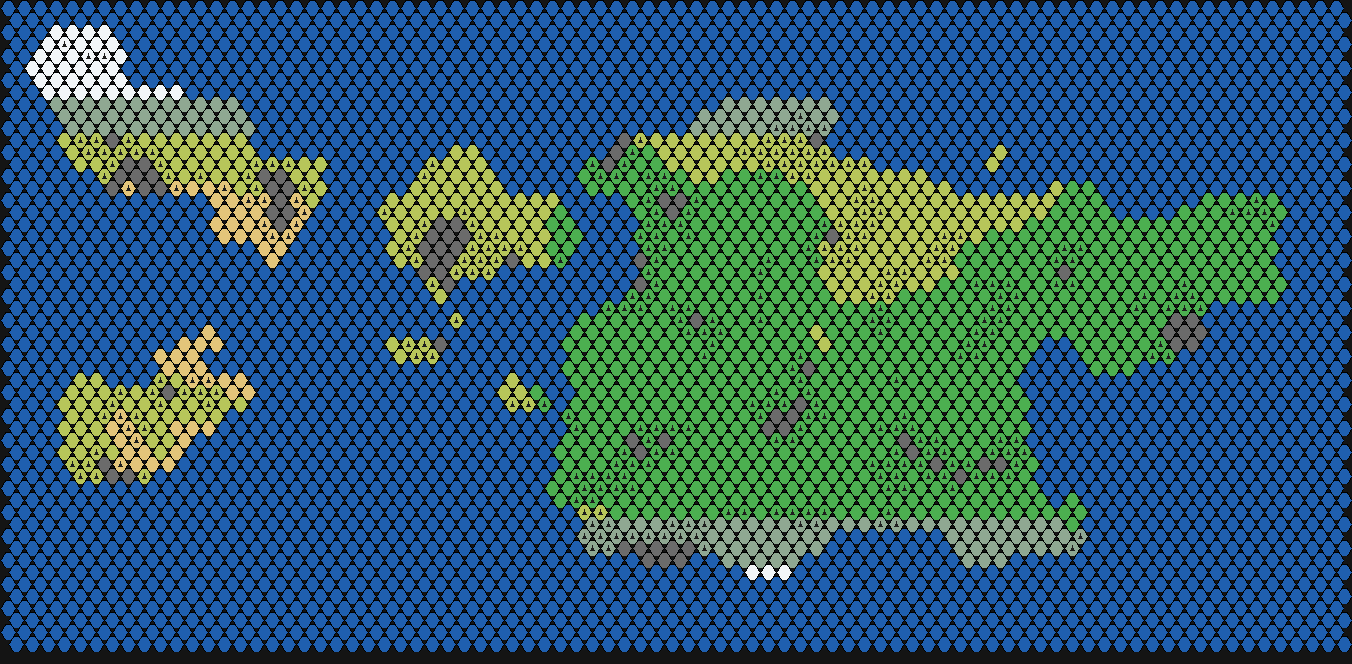
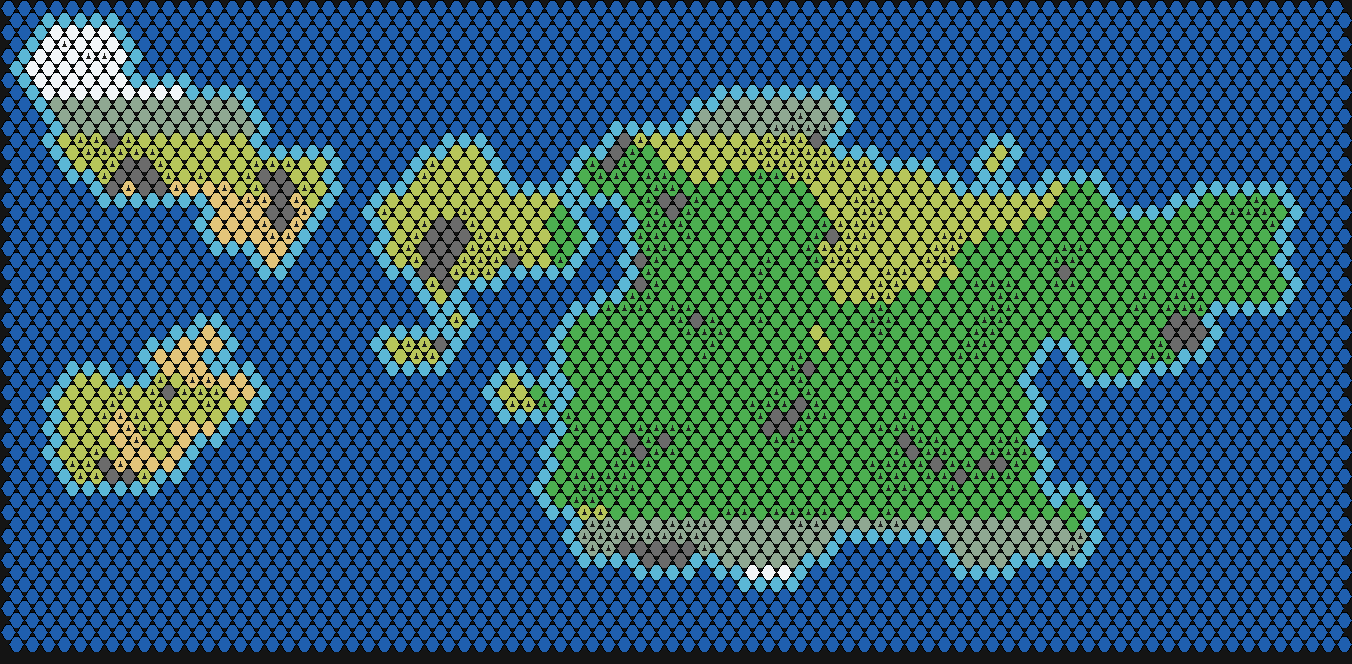
working on rivers

diff --git a/crates/mapgen/src/pipeline/biomes.rs b/crates/mapgen/src/pipeline/biomes.rs
@@ -362,7 +362,7 @@ fn generate_random_255(seed: u64, size: &MapSizes, noise_config: &NoiseConfig) -
 
 /// Helper function for Odd-r neighbors for pointy-top hexes
 /// Returns only in-bounds neighbors
-fn neighbors_odd_r(x: usize, y: usize, width: usize, height: usize) -> Vec<(usize, usize)> {
+pub fn neighbors_odd_r(x: usize, y: usize, width: usize, height: usize) -> Vec<(usize, usize)> {
     let p = y & 1;
 
     let x = x as isize;
@@ -412,6 +412,7 @@ fn neighbors_odd_r(x: usize, y: usize, width: usize, height: usize) -> Vec<(usiz
 
 /// Returns a mask where true is ocean
 /// Assumes landmask of 1 = land & 0 = water.
+/// This will only mark the oceans and the lakes, coastal tiles need to be marked separately
 fn ocean_mask(landmasses: &Vec<u8>, size: &MapSizes) -> Vec<bool> {
     let (width, height) = size.dimensions();
     let mut ocean = vec![false; size.grid_size()];
@@ -443,6 +444,33 @@ fn ocean_mask(landmasses: &Vec<u8>, size: &MapSizes) -> Vec<bool> {
     ocean
 }
 
+/// Function to mark the coastal tiles i.e. "ocean" tiles with at least one land neighbor
+fn coastal_water_mask(landmasses: &[u8], ocean: &[bool], size: &MapSizes) -> Vec<bool> {
+    let (width, height) = size.dimensions();
+    let mut coast = vec![false; width * height];
+
+    for y in 0..height {
+        for x in 0..width {
+            let idx = y * width + x;
+
+            // only ocean water can be coast
+            if landmasses[idx] != 0 || !ocean[idx] {
+                continue;
+            }
+
+            // if any neighbor is land mark as coast
+            if neighbors_odd_r(x, y, width, height)
+                .into_iter()
+                .any(|(nx, ny)| landmasses[ny * width + nx] == 1)
+            {
+                coast[idx] = true;
+            }
+        }
+    }
+
+    coast
+}
+
 /// Assign terrains based on the landmasses, temperature, rainfall and heightmap
 /// Returns (Vec<Terrain>, Vec<bool>) for terrain and defining hills
 fn assign_terrain(
@@ -460,7 +488,7 @@ fn assign_terrain(
     // Create histogram of heights (only on land)
     let mut height_histogram = [0u32; 256];
     let mut land_count = 0;
-    for (i, value) in landmasses.iter().enumerate() {
+    for (i, _) in landmasses.iter().enumerate() {
         if landmasses[i] == 1 {
             height_histogram[heightmap[i] as usize] += 1;
             land_count += 1;
@@ -499,6 +527,7 @@ fn assign_terrain(
     // **********************
 
     let ocean_mask = ocean_mask(&landmasses, &size);
+    let coast_mask = coastal_water_mask(&landmasses, &ocean_mask, &size);
 
     // **************
     // ** Terrains **
@@ -508,41 +537,55 @@ fn assign_terrain(
     let mut terrain_vec = Vec::with_capacity(n);
     let mut hill_vec = Vec::with_capacity(n);
 
-    for (l, o, h, t, r) in izip!(landmasses, ocean_mask, heightmap, temperature, rainfall) {
-        // oceans
-        if *l == 0 {
-            terrain_vec.push(if o {
-                Terrain::Ocean
-            } else {
+    for i in 0..n {
+        let l = landmasses[i];
+        
+        //water
+        if l == 0{
+            let o = ocean_mask[i];
+
+            let is_coast = coast_mask[i];
+            let is_lake = !o;
+
+            terrain_vec.push(if is_lake || is_coast {
                 Terrain::CoastLake
+            } else {
+                Terrain::Ocean
             });
             hill_vec.push(false);
             continue;
         }
 
-        if h >= &k_mountains {
+        // hills
+        let h = heightmap[i];
+        if h >= k_mountains {
             terrain_vec.push(Terrain::Mountain);
             hill_vec.push(false);
             continue;
         }
 
-        let is_hill = h >= &k_hills;
+        let is_hill = h >= k_hills;
         hill_vec.push(is_hill);
 
-        let terrain = if t <= &terrain_cfg.snow_temp_threshold {
+
+        let t = temperature[i];
+        let r = rainfall[i];
+        let terrain = if t <= terrain_cfg.snow_temp_threshold {
             Terrain::Snow
-        } else if t <= &terrain_cfg.tundra_temp_threshold {
+        } else if t <= terrain_cfg.tundra_temp_threshold {
             Terrain::Tundra
-        } else if t >= &terrain_cfg.desert_temp_threshold && r <= &terrain_cfg.desert_rain_threshold
+        } else if t >= terrain_cfg.desert_temp_threshold && r <= terrain_cfg.desert_rain_threshold
         {
             Terrain::Desert
-        } else if r >= &terrain_cfg.grassland_rain_threshold {
+        } else if r >= terrain_cfg.grassland_rain_threshold {
             Terrain::Grassland
         } else {
             Terrain::Plains
         };
 
         terrain_vec.push(terrain);
+
+
     }
 
     (terrain_vec, hill_vec)

diff --git a/crates/mapgen/src/pipeline/features.rs b/crates/mapgen/src/pipeline/features.rs
@@ -1,0 +1,51 @@
+use itertools::izip;
+
+use crate::{map_components::terrain::Terrain, pipeline::{map, map_sizes::MapSizes}};
+
+/// Find potential spots at which a river can start and end
+/// Good river starts are areas with high rainfall. We assign a score to them based on height as well to score them later
+/// Good river endings are lakes or coast
+/// Returns Vec<(bool, f32)> for starts and Vec<bool> end tiles
+fn find_river_potential(terrain_vec: &Vec<Terrain>, rain_vec: &Vec<u8>, height_vec: &Vec<u8>, map_size: &MapSizes) -> (Vec<(bool, f32)>, Vec<bool>){
+
+    let grid_size = map_size.grid_size();
+
+    // top 30% wettest regions on the map
+    let rain_threshold = (255 as f32 * 0.7) as u8;
+
+    let mut starting_locations = Vec::with_capacity(grid_size);
+
+    // all locations that are coast are good
+    let ending_locations = terrain_vec.iter().map(|terrain| {
+        terrain == &Terrain::CoastLake
+    }).collect();
+
+    for (terrain, rain, height) in izip!(terrain_vec, rain_vec, height_vec){
+        if terrain != &Terrain::Mountain || ((terrain != &Terrain::Ocean || terrain != &Terrain::CoastLake) && rain >= &rain_threshold) {
+            let elevation_score = (height / 255) as f32;
+            let rainfall_score = (rain / 255) as f32;
+            let score = 0.65 * elevation_score + 0.35 * rainfall_score;
+            starting_locations.push((true, score))
+        }
+        else {
+            starting_locations.push((false, 0.0));
+        }
+    }
+
+    (starting_locations, ending_locations)
+}
+
+/// Deterministically choose from the starting and ending positions pick pairs
+/// For each map size we choose different amounts of pairs
+/// Duel: 2
+/// Tiny: 3
+/// Small: 3
+/// Standard: 4
+/// Large: 5
+/// Huge: 6
+fn pick_and_trace_rivers(starting_locations: Vec<bool>, ending_locations: Vec<bool>, terrain_vec: &Vec<Terrain>, seed: u64, map_size: &MapSizes) -> Vec<(usize, usize)> {
+
+    let n_pairs = map_size.number_rivers();
+
+    todo!()
+}

diff --git a/crates/mapgen/src/pipeline/map_sizes.rs b/crates/mapgen/src/pipeline/map_sizes.rs
@@ -32,4 +32,21 @@ impl MapSizes {
             Self::Huge => 106 * 66,
         }
     }
+
+    /// Duel: 2
+    /// Tiny: 3
+    /// Small: 3
+    /// Standard: 4
+    /// Large: 5
+    /// Huge: 6
+    pub fn number_rivers(&self) -> usize{
+        match self {
+            Self::Duel => 2,
+            Self::Tiny => 3,
+            Self::Small => 3,
+            Self::Standard => 4,
+            Self::Large => 5,
+            Self::Huge => 6
+        }
+    }
 }

diff --git a/crates/mapgen/src/map_components/tile.rs b/crates/mapgen/src/map_components/tile.rs
@@ -1,5 +1,5 @@
 use crate::map_components::{
-    hex_coords::HexCoord,
+    hex_coords::{CompassDirection, HexCoord},
     resources::ResourceType,
     terrain::{Feature, Terrain},
     yields::Yields,
@@ -16,8 +16,7 @@ pub struct Tile {
     passable: bool,
     yields: Yields,
     // rivers and water
-    river: bool,
-    river_edge: Option<i32>,
+    river_edges: u8,
     freshwater: bool,
     ocean_acces: bool,
     // map related information

diff --git a/crates/mapgen/src/pipeline/mod.rs b/crates/mapgen/src/pipeline/mod.rs
@@ -1,3 +1,4 @@
 pub mod biomes;
 pub mod map;
 pub mod map_sizes;
+pub mod features;

diff --git a/notes.md b/notes.md
@@ -1,0 +1,7 @@
+# Notes
+
+- Sometimes we are missing biomes in the generation like desert, snow and lakes. Need to figure out a way to deterministically update the map based on those constraints
+- World generation needs to split into continents so we can assign names to them
+- More randomness to coast
+
+- Update world generation to allow for different map types?
